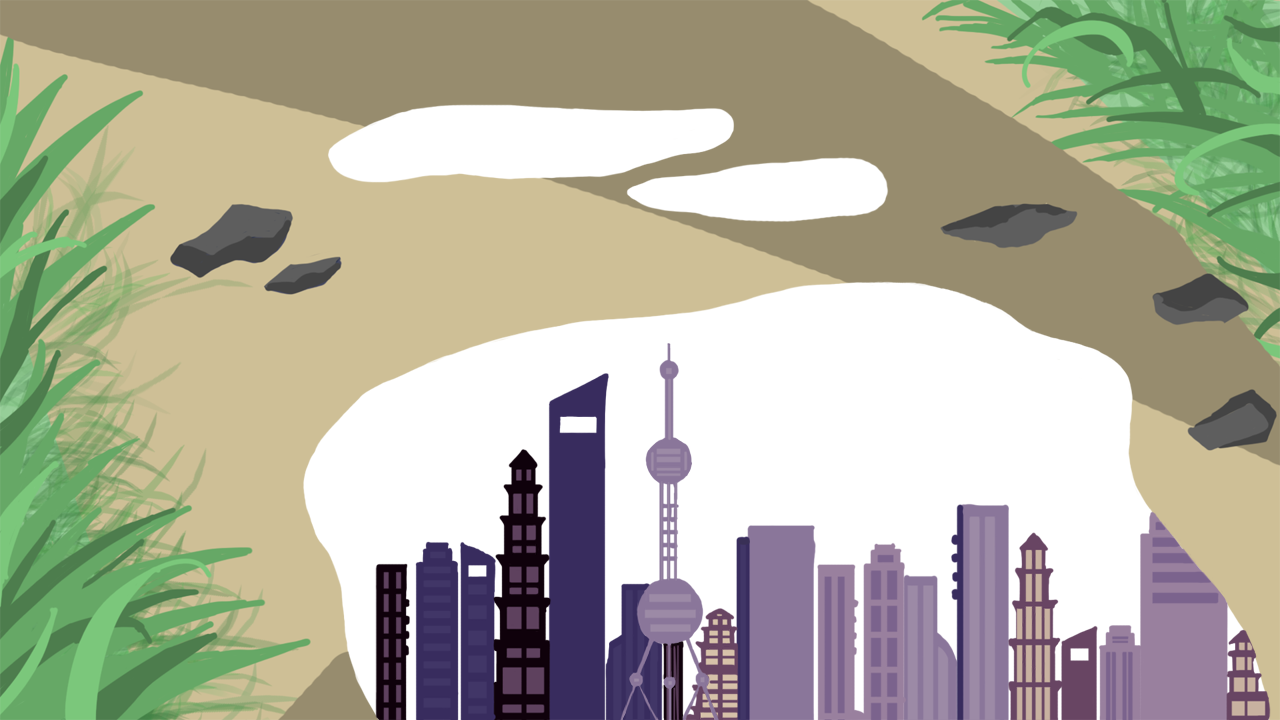
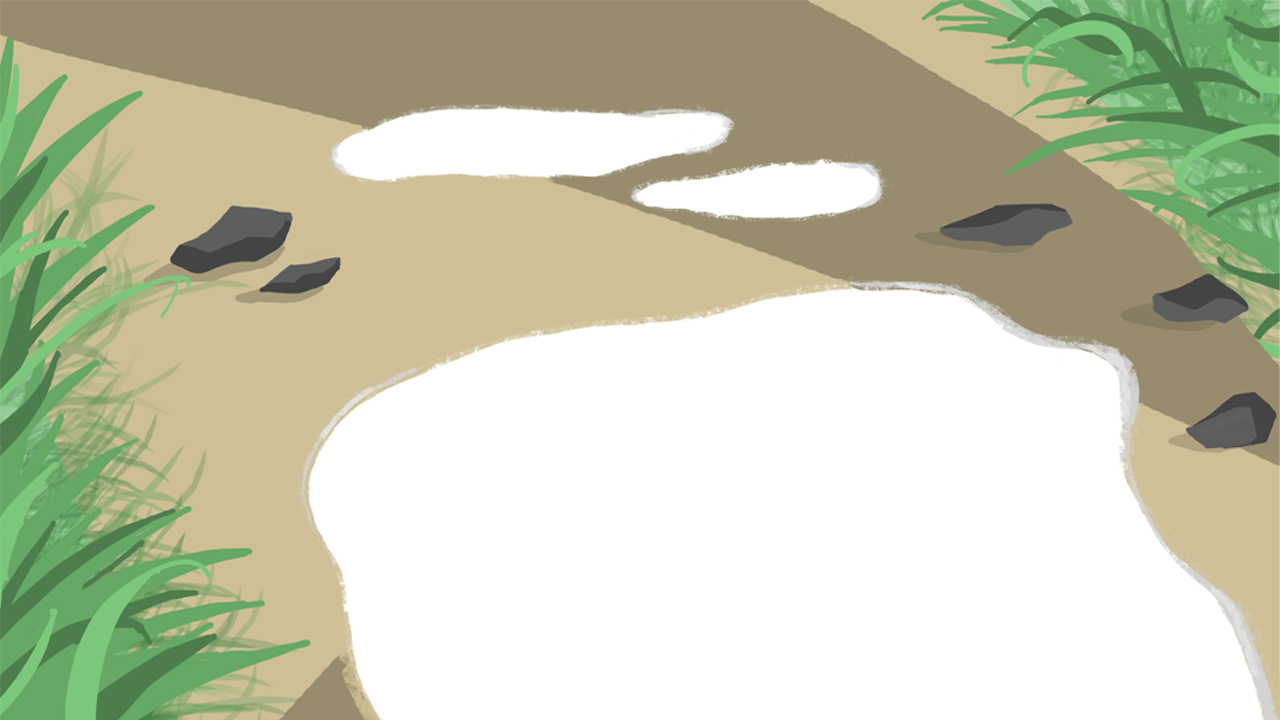
updates

diff --git a/music_starter.js b/music_starter.js
@@ -1,7 +1,9 @@
 let firstRun = true
-let bgImage;
+let Background;
+let Background2;
+let Water = [];
 let stars = [];
-let Meteors = [];
+//let Meteors = [];
 //vocal, drum, bass, and other are volumes ranging from 0 to 100
 function draw_one_frame(words, vocal, drum, bass, other, counter) {
   background(20)
@@ -35,7 +37,14 @@ function draw_one_frame(words, vocal, drum, bass, other, counter) {
 //images
 if (firstRun){
   rectMode(CENTER);
-  bgImage = loadImage('bg.png');
+  Background = loadImage('bg.png');
+  Background2 = loadImage('bg2.png');
+
+  Water.push(loadImage('water_0.png'));
+  Water.push(loadImage('water_1.png'));
+  Water.push(loadImage('water_2.png'));
+  Water.push(loadImage('water_3.png'));
+  Water.push(loadImage('water_4.png'));
 
   stars.push(loadImage('stars_0.png'));
   stars.push(loadImage('stars_1.png'));
@@ -44,53 +53,52 @@ if (firstRun){
   stars.push(loadImage('stars_4.png'));
   stars.push(loadImage('stars_5.png'));
 
-  Meteors.push(loadImage('meteors_0.png'));
-  Meteors.push(loadImage('meteors_1.png'));
-  Meteors.push(loadImage('meteors_2.png'));
-  Meteors.push(loadImage('meteors_3.png'));
-  Meteors.push(loadImage('meteors_4.png'));
-  Meteors.push(loadImage('meteors_5.png'));
-  Meteors.push(loadImage('meteors_6.png'));
-  Meteors.push(loadImage('meteors_7.png'));
-  Meteors.push(loadImage('meteors_8.png'));
-  Meteors.push(loadImage('meteors_9.png'));
-  Meteors.push(loadImage('meteors_10.png'));
-  Meteors.push(loadImage('meteors_11.png'));
-  Meteors.push(loadImage('meteors_12.png'));
-  Meteors.push(loadImage('meteors_13.png'));
-  Meteors.push(loadImage('meteors_14.png'));
-  Meteors.push(loadImage('meteors_15.png'));
-  Meteors.push(loadImage('meteors_16.png'));
-  Meteors.push(loadImage('meteors_17.png'));
-  Meteors.push(loadImage('meteors_18.png'));
-  Meteors.push(loadImage('meteors_19.png'));
-  Meteors.push(loadImage('meteors_20.png'));
-  Meteors.push(loadImage('meteors_21.png'));
+  // Meteors.push(loadImage('meteors_0.png'));
+  // Meteors.push(loadImage('meteors_1.png'));
+  // Meteors.push(loadImage('meteors_2.png'));
+  // Meteors.push(loadImage('meteors_3.png'));
+  // Meteors.push(loadImage('meteors_4.png'));
+  // Meteors.push(loadImage('meteors_5.png'));
+  // Meteors.push(loadImage('meteors_6.png'));
+  // Meteors.push(loadImage('meteors_7.png'));
+  // Meteors.push(loadImage('meteors_8.png'));
+  // Meteors.push(loadImage('meteors_9.png'));
+  // Meteors.push(loadImage('meteors_10.png'));
+  // Meteors.push(loadImage('meteors_11.png'));
+  // Meteors.push(loadImage('meteors_12.png'));
+  // Meteors.push(loadImage('meteors_13.png'));
+  // Meteors.push(loadImage('meteors_14.png'));
+  // Meteors.push(loadImage('meteors_15.png'));
+  // Meteors.push(loadImage('meteors_16.png'));
+  // Meteors.push(loadImage('meteors_17.png'));
+  // Meteors.push(loadImage('meteors_18.png'));
+  // Meteors.push(loadImage('meteors_19.png'));
+  // Meteors.push(loadImage('meteors_20.png'));
+  // Meteors.push(loadImage('meteors_21.png'));
 
   firstRun = false
 }
-  var vocalFrame = int(map(vocal, 0, 100, 0, 21));
-  console.log(vocalFrame);
-  push();
-  scale(0.4);
-  image(Meteors[vocalFrame], 500, 200)
-  pop();
+  // var vocalFrame = int(map(vocal, 0, 100, 0, 21));
+  // console.log(vocalFrame);
+  // push();
+  // scale(0.4);
+  // image(Meteors[vocalFrame], 500, 200)
+  // pop();
+  //scale(0.5);
 
-  image(bgImage, 0, 0)
+  image(Background2, 0, 0)//buildings
 
   var DrumFrame = int(map(drum, 0, 100, 0, 5));
   console.log(DrumFrame);
   push();
   scale(0.7);
   image(stars[DrumFrame], 950, 300)
-  pop();
-
-
+  pop(); 
 
 //loops
 let bassMap = map(bass, 0, 100, 0, 20);
 let lengthOfLine = 30;
-let lineStart = 560;
+let lineStart = 563;
 let lineEnd = lineStart+lengthOfLine;
 stroke(65, 54, 103);
 for(var i=1; i<= bassMap; i++){
@@ -100,7 +108,7 @@ for(var i=1; i<= bassMap; i++){
 
 let drumMap = map(drum, 0, 100, 0, 15);
 let lengthOfLine2 = 40;
-let line2Start = 760;
+let line2Start = 765;
 let line2End = line2Start+lengthOfLine2;
 stroke(156, 138, 166);
 for(var i=1; i<= drumMap; i++){
@@ -118,6 +126,14 @@ for(var i=1; i<= otherMap; i++){
   line (line3Start, line3Step+600, line3End, line3Step+600)
 }
 
+var VocalFrame = int(map(vocal, 0, 100, 0, 4));
+console.log(VocalFrame);
+push();
+scale(0.667);
+image(Water[VocalFrame], 0, 0)
+pop();
+
+image(Background, 0, 0)//ground
 
   // let baseWave = map(bass, 0, 100, 20, 120)
   // let waveHeight = baseWave;
